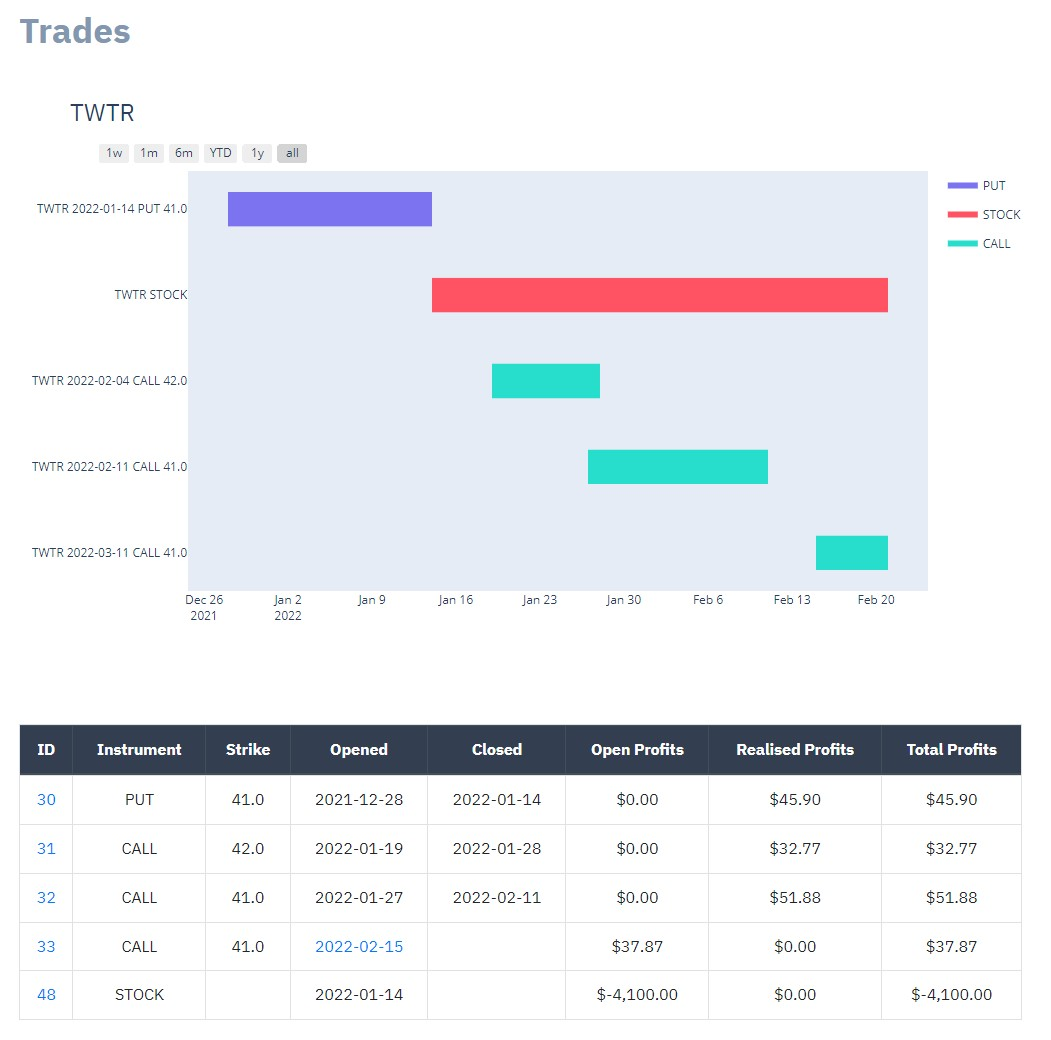
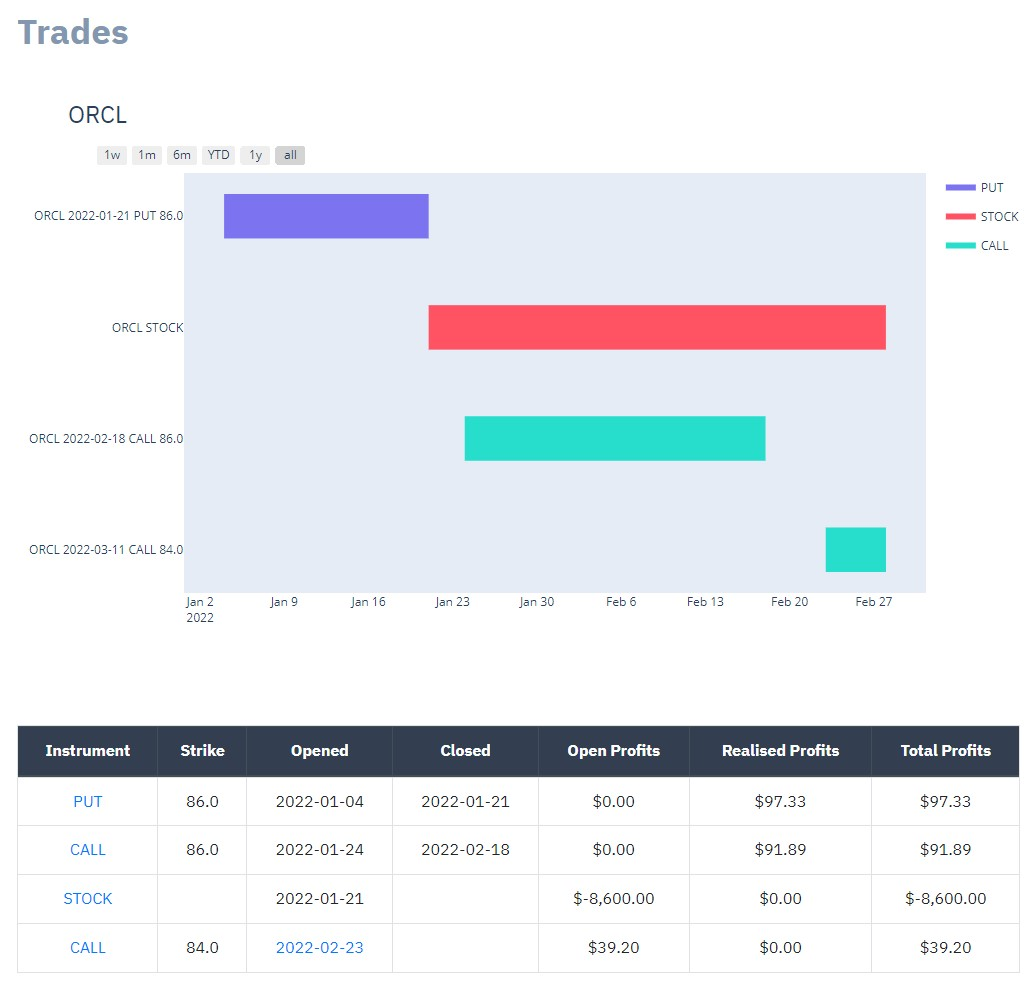
Update docs with new features
- Update screenshots for Dashboard: overview and trades
- Update Manage docs with view and delete features, and update screenshot for overview
- Remove stock metadata scan from Scan and Analyse tabs

diff --git a/docs/user_guide/manage.md b/docs/user_guide/manage.md
@@ -20,7 +20,7 @@ The Manage tab provides a list of all your trades.
 
 ---
 
-## About Trades and Strategies
+## Trades and Strategies
 **agamotto** tracks your performance through **trades**. Each put/stock/call trade captures (1) an opening transaction, (2) a closing transaction, and (3) metadata about the trade.
 
 In addition, you can tag each trade to a **strategy**, which is simply a collection of trades. A full Wheel cycle would involve (a) at least one put trade, (b) one stock trade, and (c) at least one call trade. You can also group other options to track them together as a strategy (e.g. call credit spread, put credit spread). It is <span class="fw-700 text-green-100">highly recommended</span> that you assign each trade to a strategy because **agamotto** can track the collective profits and cost basis for you.
@@ -46,7 +46,11 @@ To add a trade, click the Add Trade button to go to a form for entering data. Th
 
 Strike and Expiration Date are optional because you may be transacting a stock. The Closing Transaction fields are optional, since they are only updated when a trade is closed.
 
-The strategy is also optional. However, once again, it is **highly recommended** that you assign each trade to a strategy. You can use any convention, as long as the strategy is unique. The convention I use to ensure uniqueness is: `<ticker>-<expiration date formatted as DDMMMYY>-<P for put or C for call><strike price>_<open date formatted as DDMMYYYY>`.
+The strategy is also optional. However, once again, it is **highly recommended** that you assign each trade to a strategy. You can use any convention, as long as the strategy is unique. The convention I use to ensure uniqueness is:
+
+```<ticker>-<expiration date formatted as DDMMMYY>-<P for put or C for call><strike price>_<open date formatted as DDMMYYYY>```.
+
+For example, a TWTR put option with a strike of $41 expiring on 14 Jan 2022, opened on 28 Dec 2021 would be `TWTR-14JAN22-P41-28DEC21`.
 
 #### Manage: Add Trade
 {: .no_toc }
@@ -55,8 +59,18 @@ The strategy is also optional. However, once again, it is **highly recommended**
     <img src="https://raw.githubusercontent.com/chrischow/agamotto/main/docs/images/manage-add.jpg">
 </p>
 
+## Viewing Trade Details
+To view a trade, simpy click on the ticker in the corresponding row in the full list of trades. This will take you to a dedicated page to see all the details of a trade.
+
+#### Manage: View Trade
+{: .no_toc }
+
+<p align="center">
+    <img src="https://raw.githubusercontent.com/chrischow/agamotto/main/docs/images/manage-view.jpg">
+</p>
+
 ## Editing a Trade
-When you close a trade, it is essential to update the closing date, price, and fees. To do so, click on the ID of a given trade to go to a form for editing that trade.
+When you close a trade, it is essential to update the closing date, price, and fees. To do so, click the Edit Trade button in the trade's detail page.
 
 #### Manage: Edit Trade
 {: .no_toc }
@@ -65,4 +79,11 @@ When you close a trade, it is essential to update the closing date, price, and f
     <img src="https://raw.githubusercontent.com/chrischow/agamotto/main/docs/images/manage-edit.jpg">
 </p>
 
-> **Future Work:** Create a dedicated view for each trade as an intermediate page between the list of all trades and the edit page. Also allow deleting trades.
+If you choose to delete a trade, don't worry - you'll have an opportunity to confirm your action.
+
+#### Manage: Delete Trade
+{: .no_toc }
+
+<p align="center">
+    <img src="https://raw.githubusercontent.com/chrischow/agamotto/main/docs/images/manage-delete.jpg">
+</p>

diff --git a/docs/user_guide/scan.md b/docs/user_guide/scan.md
@@ -23,11 +23,13 @@ The Scan feature allows you to identify potential **put options** to kickstart y
 ## Scan Options
 You have choices of two types of scans: (1) preset scans and (2) custom scans.
 
-This is where the app is somewhat opinionated: scans are **limited to put options only**. The reason is that the starting put option in the Wheel strategy is the only thing you *actually* have flexibility in choosing.
+This is where the app is somewhat opinionated: scans are **limited to put options only**. The first reason is that **agamotto** is tailored for managing your Wheel strategy, and these always start with the sale of a put option. The second reason is that the starting put option is the only trade you *actually* have flexibility in choosing under the Wheel strategy.
 
 - In choosing the **initial** put option, you have a choice over the (1) underlying, (2) strike, and (3) expiry. This we can scan for and optimise.
 - If you have to **roll** the put, you can only choose the strike and expiry, in which case the underlying's options chain should suffice in providing you the info you need.
-- If you get **assigned** and need to start selling covered calls, you only have a choice over the expiry date and *some* strikes, depending on your cost basis. The underlying's options chains should also suffice.
+- If you get **assigned** and need to start selling covered calls, you only have a choice over the expiry date and *some* strikes for the call option, depending on your cost basis. The underlying's options chains should also suffice.
+
+That said, logging your trades as a [strategy](https://chrischow.github.io/agamotto/user_guide/manage/#trades-and-strategies) still gives you access to the full capabilities that **agamotto** has for tracking your profits.
 
 ## Preset Lists
 Preset lists are provided for scanning (see table below). Most of these are lists of ETFs with options. ETFs were chosen because of their relative stability. In the event that you get assigned, you may be more comfortable (or at least, I am) holding an ETF instead of a small set of stocks. The remaining lists are lists of stocks in several popular ETFs. See the full list of tickers [here](#preset-lists).
@@ -70,22 +72,6 @@ Alternatively, you can run scans on a custom list of tickers. Be sure to check t
 <p align="center">
     <img src="https://raw.githubusercontent.com/chrischow/agamotto/main/docs/images/scan-custom.jpg" width="400">
 </p>
-
-## Update Stock Metadata
-
-<span class="label label-yellow">WIP</span>
-
-This scan primarily supports the other scans. It is automatically run when you launch scans on tickers that **agamotto** does not have metadata on, but can be run manually as well. The output is information on specific companies and their stock price movement statistics.
-
-
-<p align="center">
-    <img src="https://raw.githubusercontent.com/chrischow/agamotto/main/docs/images/scan-stock-metadata.jpg" width="400">
-</p>
-
-> **Future Work:** Consider removing this. **agamotto** is for *option* selection, not for stock selection.
-
-
-<div id="preset-lists"></div>
 
 ## Tickers in Preset Lists
 

diff --git a/README.md b/README.md
@@ -21,7 +21,14 @@
 See the [documentation](https://chrischow.github.io/agamotto/getting_started) for the detailed instructions.
 
 ## Features
-See the [documentation](https://chrischow.github.io/agamotto/user_guide) for a walkthrough of the app.
+**agamotto** enables you to:
+
+- Scan for put options to initiate a Wheel strategy
+- Log put/call options and stock trades
+- Monitor your open options trades, with recommendations to buyback or roll
+- Get a high-level overview of your profits, broken down by strategy, ticker, and trade
+
+This is just a high-level description. See the [documentation](https://chrischow.github.io/agamotto/user_guide) for a full walkthrough of the app.
 
 ## Future Work
 - Deployment:

diff --git a/docs/user_guide/analyse.md b/docs/user_guide/analyse.md
@@ -54,15 +54,3 @@ Some more metrics that may (or may not) be unconventional:
 | :----: | :---------- |
 | `Delta-adjusted Return` | ROI, adjusted (divided) by delta as the "risk" |
 | `IV-adjusted Return` | ROI, adjusted (divided) by IV as the "risk" |
-
-## Stocks List
-This list is a work in progress. I recognise that this may not be the best place to filter stocks for choosing an underlying. Leaving this here for now.
-
-#### Stocks List
-{: .no_toc }
-
-<p align="center">
-    <img src="https://raw.githubusercontent.com/chrischow/agamotto/main/docs/images/analyse-stocks.jpg">
-</p>
-
-> **Future Work:** Convert this to a table with qualitative information e.g. sector, industry, and company description.

diff --git a/docs/user_guide/dashboard.md b/docs/user_guide/dashboard.md
@@ -64,7 +64,7 @@ This section provides an overview of the statuses of your Strategies. In particu
 </p>
 
 ### Strategy: Detail
-Click on the Strategy code to see more details about that Strategy. The detail view summarises the Strategy using key metrics from the overview, a timeline / Gantt chart of the trades under the Strategy, and information about each trade.
+Click on the Strategy code to see more details about that Strategy. The detail view summarises the Strategy using (1) key metrics on the strategy, (2) a profit/loss diagram, (3) a timeline / Gantt chart of the trades under the Strategy, and (3) information on the constituent trades.
 
 #### Strategy Details: Overview
 {: .no_toc }
